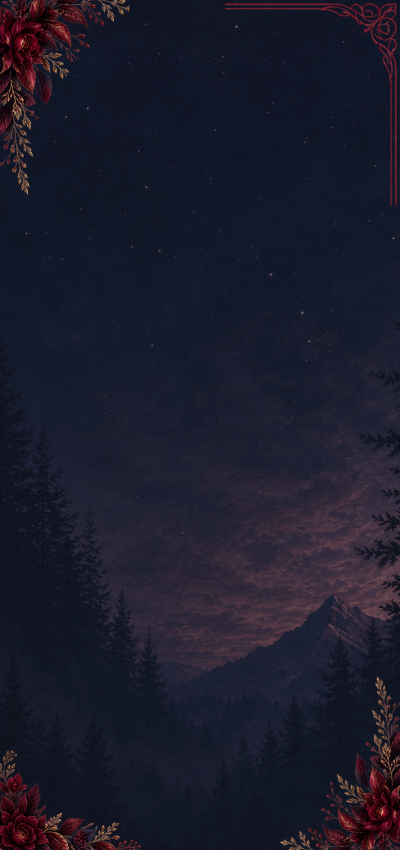
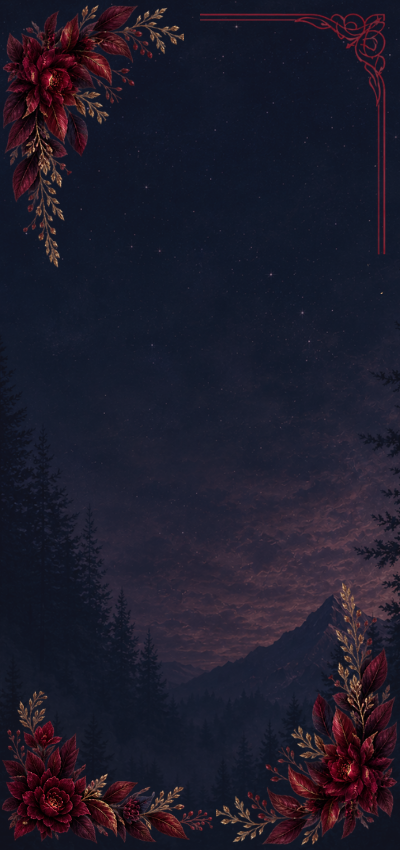
update home

Changed region(s): [[0.0, 0.6729, 1.0, 1.0], [0.0, 0.0, 0.45, 0.3365], [0.51, 0.0, 1.0, 0.3059]]

diff --git a/src/components/Home/Home.css b/src/components/Home/Home.css
@@ -972,6 +972,7 @@
 
 @media (max-width: 480px) {
   .monogram-wrapper {
+    margin-top: 4vh;
     margin-bottom: 2vh;
   }
 
@@ -987,9 +988,9 @@
   }
 
   .title {
-    font-size: 4.15rem;
+    font-size: 4rem;
     line-height: 1.2;
-    margin-bottom: 2vh;
+    margin-bottom: 1vh;
   }
 
   .title .and {
@@ -1055,8 +1056,8 @@
   .countdown {
     max-width: 310px;
     gap: 5px;
-    margin-top: 4vh;
-    margin-bottom: 3vh;
+    margin-top: 3vh;
+    margin-bottom: 0.5vh;
   }
 
   .time-box {
@@ -1074,13 +1075,9 @@
     letter-spacing: 0.45px;
   }
 
-  .scroll-indicator {
-    margin-top: 1.8vh;
-  }
-
   .mouse-mobile {
     width: 26px;
-    height: 52px;
+    height: 40px;
   }
 
   .mouse-mobile span {
